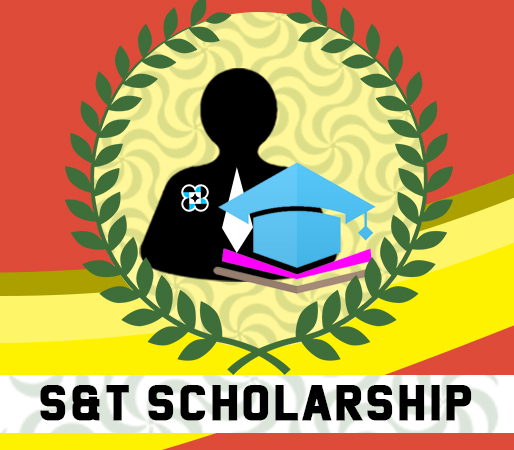
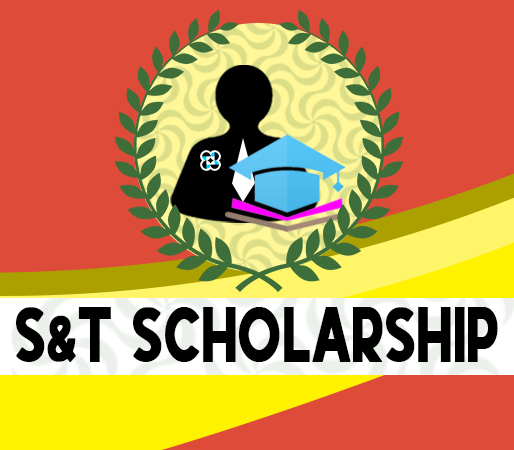
test

diff --git a/frontend/web/surveyscript/index.css b/frontend/web/surveyscript/index.css
@@ -224,7 +224,7 @@ div.sv_q_imgsel {
 fieldset.sv_imgsel {
     padding: 20px;
     text-align: center;
-    margin-top: 175px;
+    margin-top: 125px;
 }
  div.sv_q_imgsel img {
     filter: grayscale(50%);
@@ -463,7 +463,7 @@ div#sp_100,#sp_101,#sp_102,#sp_103,#sp_104,#sp_105,#sp_106,#sp_107,#sp_108,#sp_1
         font-size: 28px!important;
     }
     
-    span {
+    span:first {
         font-size: 28px;
         color: #212121;
         text-shadow: #ffffff 2px 1px;
@@ -514,7 +514,7 @@ div#sp_100,#sp_101,#sp_102,#sp_103,#sp_104,#sp_105,#sp_106,#sp_107,#sp_108,#sp_1
         font-size: 25px!important;
     }
     
-    span {
+    span:first {
         font-size: 40px;
         color: #212121;
         text-shadow: #ffffff 2px 1px;

diff --git a/frontend/web/surveyscript/index.js b/frontend/web/surveyscript/index.js
@@ -2025,13 +2025,13 @@ jQuery(document).ready(function ($) {
     $( document ).on( "click", ".openmode", function () {
     var mdata = $( this ).data( 'id' );
     Swal.fire({
-       title: mdata,
-       text: "You Selected :" + mdata,
+       title: "You Have Selected: " + mdata,
+       text: "",
        icon: 'info',
-       showCancelButton: true,
-       confirmButtonColor: '#3085d6',
-       cancelButtonColor: '#d33',
-       confirmButtonText: 'Yes'
+       showCancelButton: false,
+       confirmButtonColor: '#00FF00',
+       cancelButtonColor: '#00FF00 ',
+       confirmButtonText: 'Proceed'
     
      }).then((result) => {
        if (result.value) {

diff --git a/frontend/web/surveyscript/style.css b/frontend/web/surveyscript/style.css
@@ -99,3 +99,17 @@ body {
 }
 
 
+div.alert.alert-danger {
+  background: none!important;
+  border:none;
+
+}
+
+h5 span {
+  color: #212121;
+  font-size: 50px;
+}
+span {
+  color: red;
+  font-size: 25px;
+}
